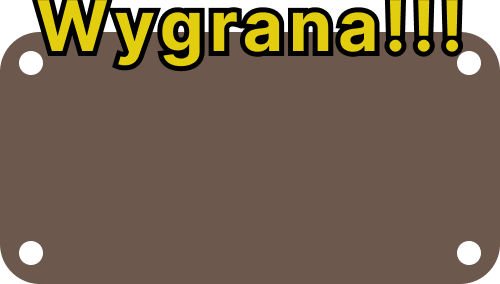
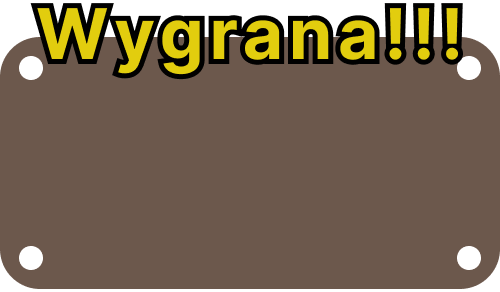
Dodanie banera na koncu gry z inf o wygranej / przegranej

diff --git a/src/GameplayScreen.cpp b/src/GameplayScreen.cpp
@@ -30,6 +30,14 @@ void GameplayScreen::initAssets()
     if (!(this->holeTexture.loadFromFile("assets/hole.png")))
         std::cout << "ERROR::GameplayScreen::TEXTURES - hole.png\n";
     this->holeTexture.setSmooth(true);
+
+    // Tekstury ekranu wygranej / przegranej
+    if (!(this->winBgTexture.loadFromFile("assets/win_screen_bg.png")))
+        std::cout << "ERROR::GameplayScreen::TEXTURES - win_screen_bg.png\n";
+    this->winBgTexture.setSmooth(true);
+    if (!(this->loseBgTexture.loadFromFile("assets/lose_screen_bg.png")))
+        std::cout << "ERROR::GameplayScreen::TEXTURES - lose_screen_bg.png\n";
+    this->loseBgTexture.setSmooth(true);
 }
 void GameplayScreen::initCourse()
 {
@@ -129,6 +137,7 @@ GameplayScreen::GameplayScreen(std::string pathToLvl)
     this->initAssets();
 
     // Inicjalizacja zmiennych
+    this->gameState = -1;
     this->gridRows = 8;         // Ilosc rzedow
     this->gridCols = 16;        // Ilosc kolumn
     this->borderThickness = 15; // Grubosc drewnianego ogrodzenia
@@ -170,7 +179,7 @@ GameplayScreen::GameplayScreen(std::string pathToLvl)
     // Inicjalizacja planszy (przeszkod)
     this->initObstacklesSprites();
 
-    // Dolek
+    // Inicjalizacja dolka
     this->hole.setTexture(this->holeTexture);
     this->hole.setOrigin(sf::Vector2f(
         this->hole.getGlobalBounds().width / 2,
@@ -179,6 +188,11 @@ GameplayScreen::GameplayScreen(std::string pathToLvl)
 
     // Inicjalizacja pilki
     this->ball = new Ball(this->whiteBallTexture);
+
+    // Inicjalizacja ekranu wygranej / przegranej
+    this->endGameScreen.setTexture(this->winBgTexture); // Musimy ustawic, zeby mial jakies wymiary
+    this->endGameScreen.setOrigin(sf::Vector2f(this->endGameScreen.getGlobalBounds().width / 2, this->endGameScreen.getGlobalBounds().height / 2));
+    this->endGameScreen.setPosition(sf::Vector2f(600, 350));
 }
 GameplayScreen::~GameplayScreen()
 {
@@ -318,6 +332,9 @@ void GameplayScreen::holeCollision()
             this->ball->setVelocityY(0);
             this->ball->setPositionX(holePos.x);
             this->ball->setPositionY(holePos.y);
+
+            this->gameState = 1; // Wygralismy
+            this->endGameScreen.setTexture(this->winBgTexture);
         }
     }
 }
@@ -327,7 +344,7 @@ void GameplayScreen::update(sf::WindowBase &window)
     // Kolizja ze scianami
     this->wallsCollision();
 
-    this->ball->update(window, this->strokesLimit);
+    this->ball->update(window, this->strokesLimit, this->gameState);
 
     // Aktualizacja napisu z pozostala liczba strzalow
     this->strokesLimitText.setString(sf::String("Strzaly: " + std::to_string(this->strokesLimit)));
@@ -340,6 +357,16 @@ void GameplayScreen::update(sf::WindowBase &window)
 
     // Kolizja z dolkiem
     this->holeCollision();
+
+    // Poczekanie az pilka sie zatrzyma i sprawdzenie czy przypadkiem juz nie przegralismy
+    if (!this->ball->isMoving && this->gameState == -1)
+    {
+        if (this->strokesLimit <= 0)
+        {
+            this->gameState = 0;
+            this->endGameScreen.setTexture(this->loseBgTexture);
+        }
+    }
 }
 
 void GameplayScreen::render(sf::RenderTarget &target)
@@ -359,4 +386,10 @@ void GameplayScreen::render(sf::RenderTarget &target)
     target.draw(this->hole); // Dolek
 
     this->ball->render(target);
+
+    // Ewentualny ekran wygranej / przegranej
+    if (gameState != -1)
+    {
+        target.draw(this->endGameScreen);
+    }
 }

diff --git a/src/Ball.cpp b/src/Ball.cpp
@@ -49,10 +49,10 @@ void Ball::setPositionY(float newPos)
         newPos));
 }
 
-void Ball::update(sf::WindowBase &window, int &strokesLimit)
+void Ball::update(sf::WindowBase &window, int &strokesLimit, int &gameState)
 {
-    // Strzelaj tylko, jezeli liczba strokeow do wykorzystania jest > 0
-    if (strokesLimit > 0)
+    // Strzelaj tylko, jezeli gra sie nie skonczyla => liczba strokeow > 0
+    if (gameState == -1)
     {
         // Strzelanie = ustawianie odpowiedniego velocity tylko jezeli aktualnie velocity = 0
         if (sf::Mouse::isButtonPressed(sf::Mouse::Left) && (this->velocity.x == 0.f && this->velocity.y == 0.f))
@@ -66,9 +66,7 @@ void Ball::update(sf::WindowBase &window, int &strokesLimit)
             // Mysz w stosunku do pilki - nad lub pod pilka
             this->velocity.y = (ballPos.y - mousePos.y) / 5.f;
 
-            // TODO zmniejszenie liczby strokeow
             strokesLimit--;
-            std::cout << "Strokes Limit wewnatrz ball.cpp: " << strokesLimit << std::endl;
         }
     }
     // Move
@@ -82,6 +80,12 @@ void Ball::update(sf::WindowBase &window, int &strokesLimit)
         this->velocity = sf::Vector2f(0, 0);
 
     this->velocity *= 0.96f;
+
+    // Sprawdzanie czy pilka sie porusza i aktualizowanie zmiennej
+    if (this->velocity.x == 0 && this->velocity.y == 0)
+        this->isMoving = false;
+    else
+        this->isMoving = true;
 }
 void Ball::render(sf::RenderTarget &target)
 {

diff --git a/include/GameplayScreen.h b/include/GameplayScreen.h
@@ -9,8 +9,14 @@
 class GameplayScreen
 {
 private:
+    /**
+     * -1 - playgin
+     * 0 - lose
+     * 1 - win
+     */
+    int gameState;
     sf::Font font;
-    sf::Texture grassLightTexture, grassDarkTexture, rockTexture, sandTexture, whiteBallTexture, holeTexture;
+    sf::Texture grassLightTexture, grassDarkTexture, rockTexture, sandTexture, whiteBallTexture, holeTexture, winBgTexture, loseBgTexture;
 
     int currentLvl;        // Aktualnie wyswietlany lvl
     int strokesLimit;      // Limit uderzen dla danego poziomu
@@ -31,6 +37,9 @@ private:
     Ball *ball; // Pointer do pilki
 
     sf::Sprite hole; // Dolek
+
+    // Ekran wygranej / przegranej
+    sf::Sprite endGameScreen;
 
     void initAssets();
     void initCourse();

diff --git a/include/Ball.h b/include/Ball.h
@@ -13,6 +13,8 @@ public:
     Ball(sf::Texture &texture);
     ~Ball();
 
+    bool isMoving;
+
     sf::FloatRect getGlobalBounds();
     sf::Vector2f getVelocity();
     sf::Vector2f getPosition();
@@ -21,7 +23,7 @@ public:
     void setPositionX(float newPos);
     void setPositionY(float newPos);
 
-    void update(sf::WindowBase &window, int &strokesLimit);
+    void update(sf::WindowBase &window, int &strokesLimit, int &gameState);
     void render(sf::RenderTarget &target);
 };
 

diff --git a/src/Game.cpp b/src/Game.cpp
@@ -158,7 +158,7 @@ void Game::update()
             this->isMouseBtnPressed = true;
 
             this->gameScreen = this->playBtn->getValue();
-            this->GameplayScreenLvl1 = new GameplayScreen(this->lvlsPathArray[1]);
+            this->GameplayScreenLvl1 = new GameplayScreen(this->lvlsPathArray[0]);
         }
         else if (this->lvlsBtn->isClicked(this->window) && !this->isMouseBtnPressed)
         {
